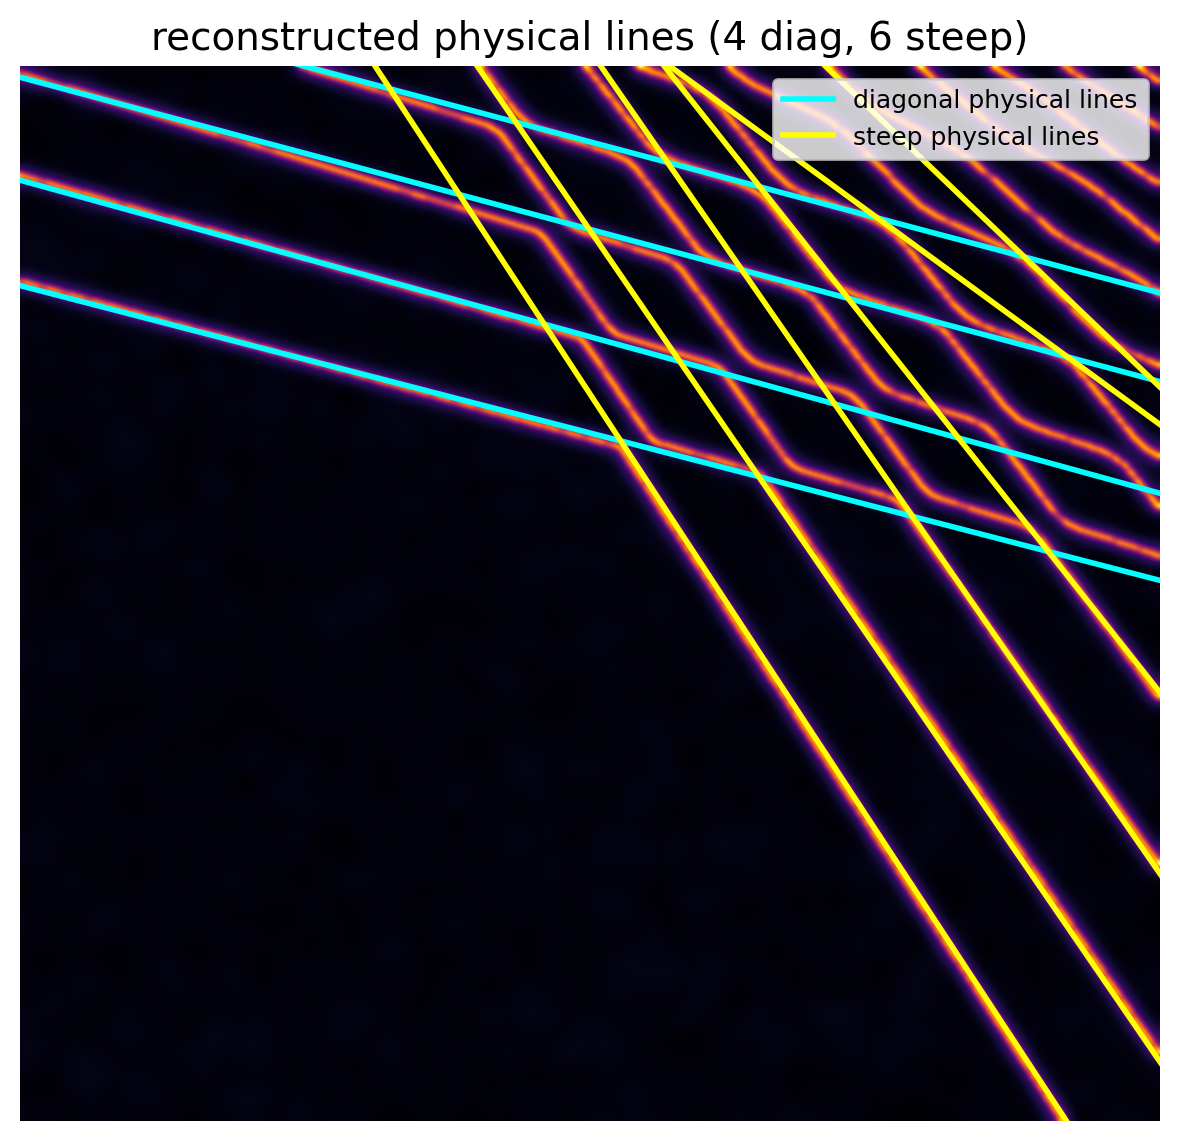
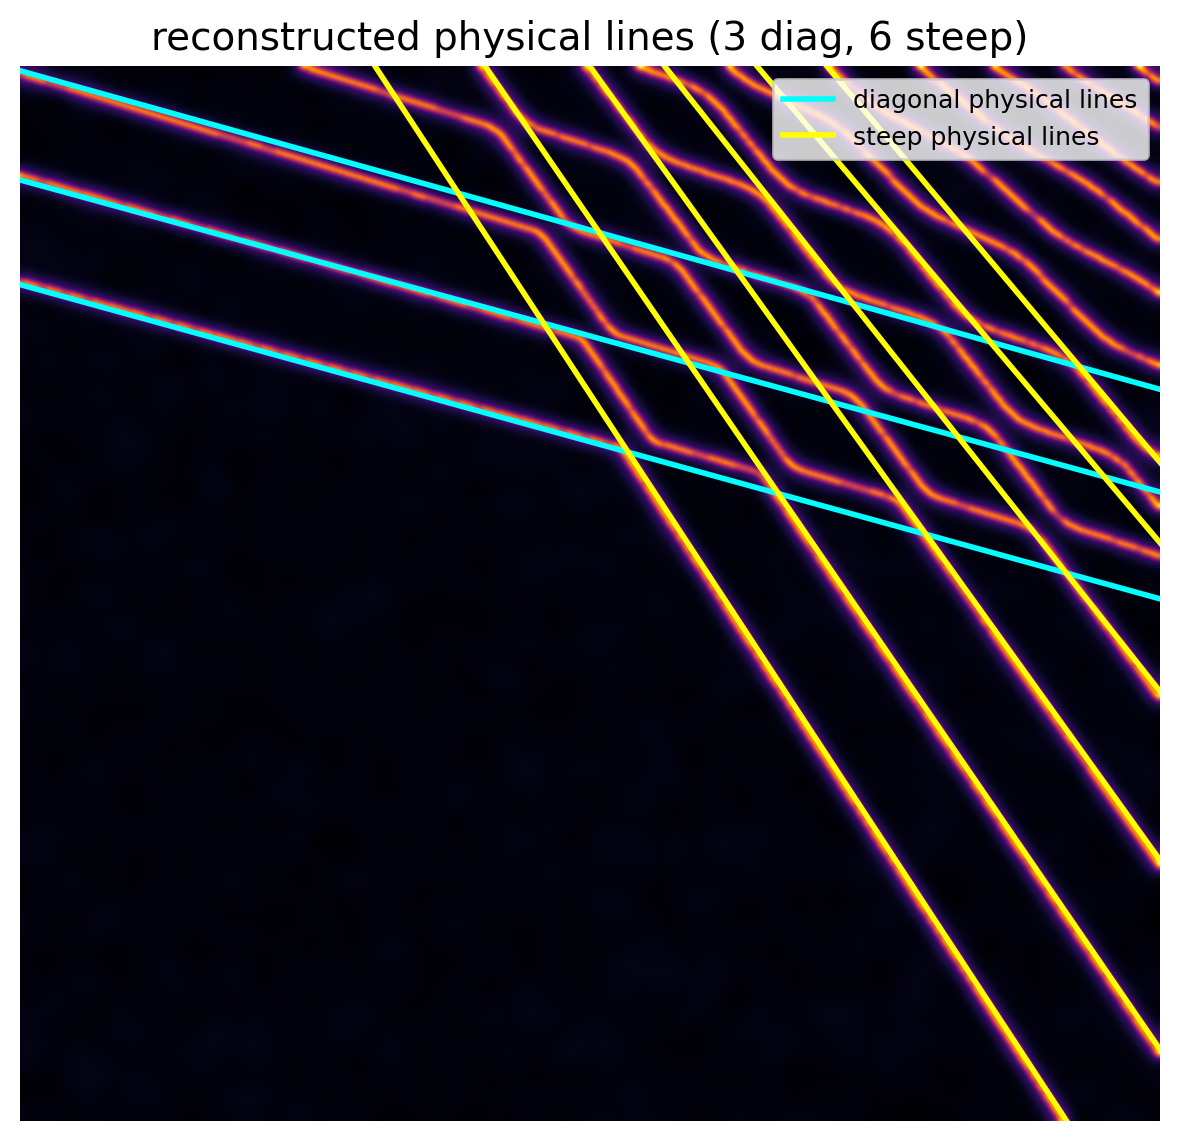
added mad filter

diff --git a/2D/2D_extraction.py b/2D/2D_extraction.py
@@ -311,7 +311,28 @@ def group_and_fit(segments, family_type, is_steep=False, center_val=250):
 final_diag_lines = group_and_fit(clean_diagonal, "diagonal", is_steep=False)
 final_steep_lines = group_and_fit(clean_steep, "steep", is_steep=True)
 
+# MAD FILTER TO KILL HONEYCOMB CROSSING LINES 
+def apply_mad_filter(physical_lines, threshold=3.5):
+    if len(physical_lines) < 3:
+        return physical_lines
+    slopes = [l["slope"] for l in physical_lines]
+    med_slope = np.median(slopes)
+    mad = np.median([abs(s - med_slope) for s in slopes])
+    mad = max(mad, 1e-5) # prevent divide by zero
+    
+    # keep only lines whose slope is within the MAD threshold
+    return [l for l in physical_lines if abs(l["slope"] - med_slope) < threshold * mad]
+
+# filter out the junk crossing lines
+final_diag_lines = apply_mad_filter(final_diag_lines)
+final_steep_lines = apply_mad_filter(final_steep_lines)
+
 final_lines = final_diag_lines + final_steep_lines
+
+
+
+
+
 
 # add line_id and force the exact dictionary key order as 1d
 ordered_final_lines = []
